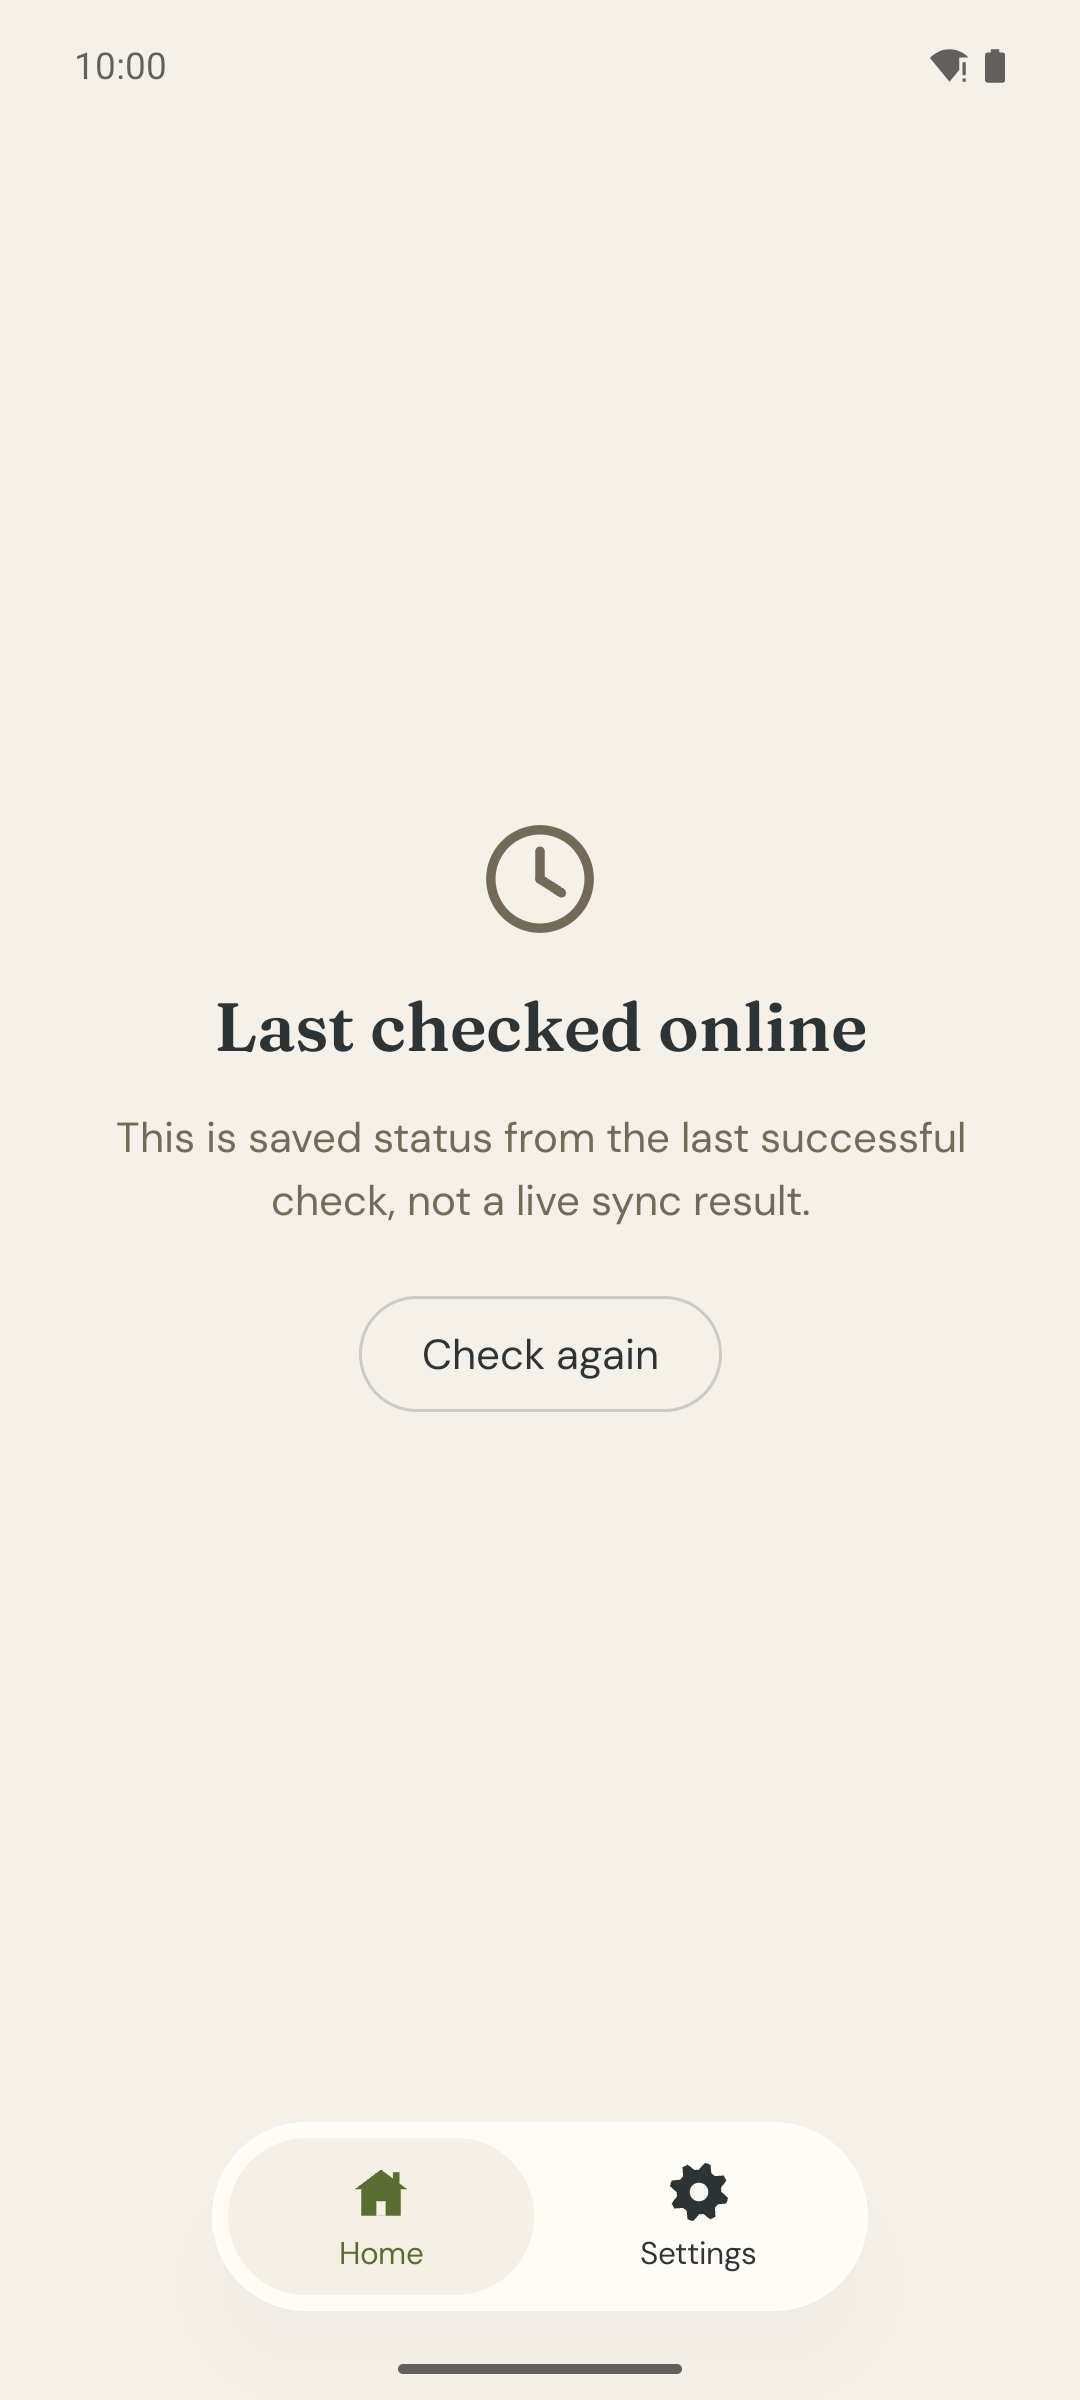
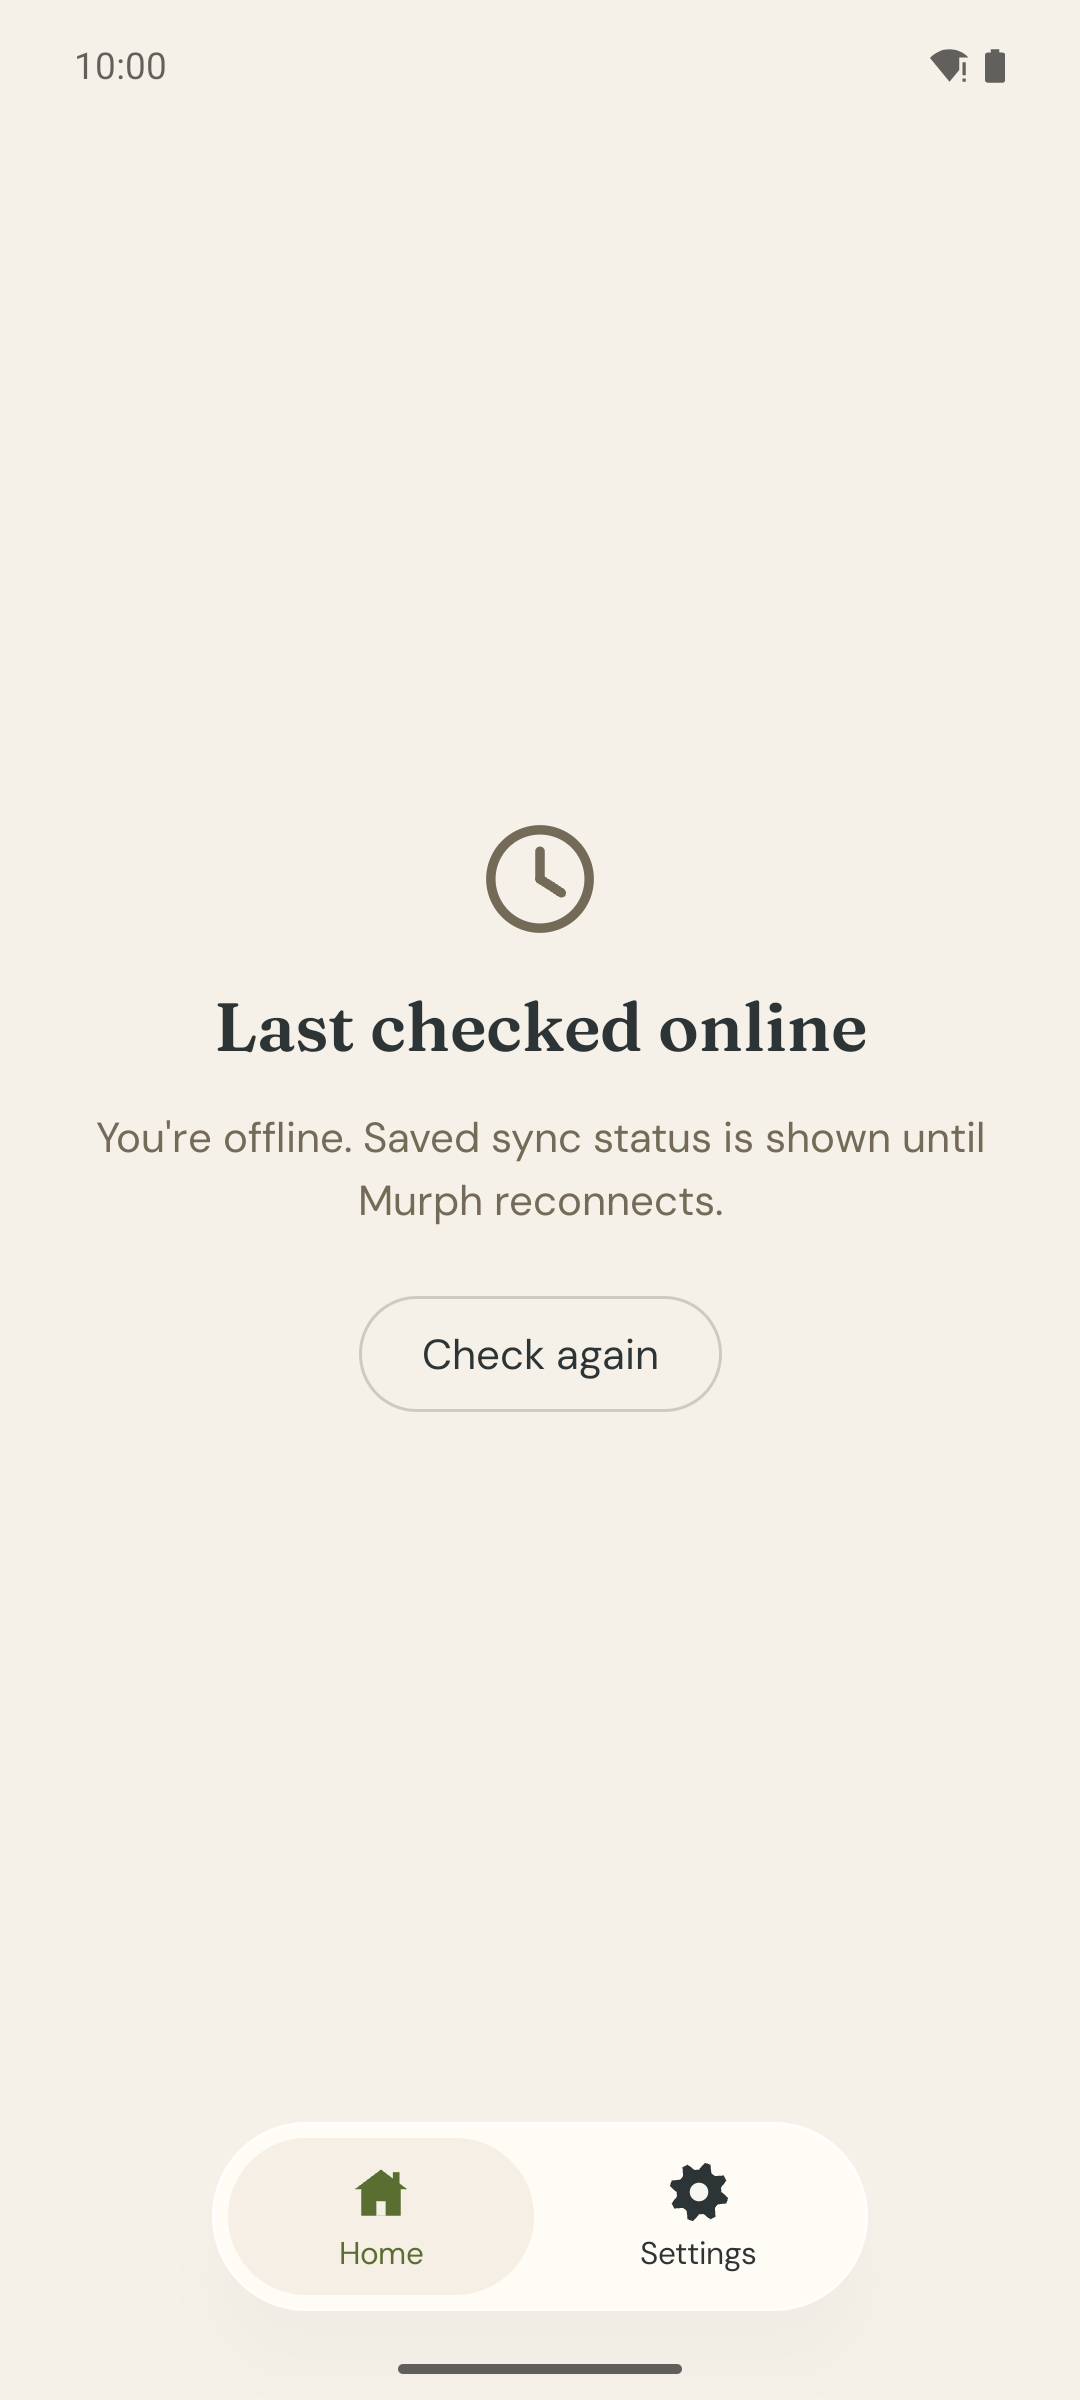
Fail closed on Health Connect permission reload

Changed region(s): [[0.0917, 0.4688, 0.9167, 0.5312]]

diff --git a/app/src/main/java/ai/withmurph/companion/app/AppSession.kt b/app/src/main/java/ai/withmurph/companion/app/AppSession.kt
@@ -1869,6 +1869,7 @@ class AppSession(
     private suspend fun syncNow(
         foregroundClaim: ForegroundRefreshClaim?,
         acceptedConsentOwner: PendingLaunchConsentRecovery? = null,
+        permissionStateVerified: Boolean = false,
         onAuthoritativeLocalAuth: ((AuthSessionState) -> Unit)? = null,
     ) {
         if (!allowsLaunchConsentWork(acceptedConsentOwner)) return
@@ -1884,10 +1885,19 @@ class AppSession(
             reconcile(force = true, foregroundClaim, acceptedConsentOwner)
             return
         }
+        if (
+            !permissionStateVerified &&
+            _state.value.healthStatusIsStale &&
+            !refreshHealthPermissionState()
+        ) {
+            publishHealthPermissionVerificationFailure()
+            return
+        }
         if (health.grantedResourceCount() == 0) {
             publishPermissionAwareHealthState(
                 status = cachedHealthStatus(),
                 message = _state.value.healthMessage,
+                healthStatusIsStale = false,
             )
             return
         }
@@ -1996,15 +2006,13 @@ class AppSession(
                 if (!ownsForegroundRefresh(foregroundClaim)) return@withLock
             }
             if (_state.value.phase != AppPhase.Ready) return@withLock
-            try {
-                health.refreshPermissionState()
-            } catch (error: CancellationException) {
-                throw error
-            } catch (_: Exception) {
-                // Availability and backend receipt status remain independently useful.
-            }
+            val permissionStateVerified = refreshHealthPermissionState()
             if (!ownsForegroundRefresh(foregroundClaim)) return@withLock
             val availability = health.availability()
+            if (!permissionStateVerified) {
+                publishHealthPermissionVerificationFailure(availability)
+                return@withLock
+            }
             val grantedResourceCount = health.grantedResourceCount()
             val needsPermissionRecovery = healthWasRequested() && grantedResourceCount == 0
             _state.update { current ->
@@ -2014,6 +2022,11 @@ class AppSession(
                         HealthSyncState.NotConnected
                     } else {
                         current.healthSync
+                    },
+                    healthStatusIsStale = if (needsPermissionRecovery) {
+                        false
+                    } else {
+                        current.healthStatusIsStale
                     },
                     grantedResourceCount = grantedResourceCount,
                     healthMessage = if (
@@ -2036,6 +2049,7 @@ class AppSession(
             ) {
                 syncNow(
                     foregroundClaim,
+                    permissionStateVerified = true,
                     onAuthoritativeLocalAuth = {
                         deferredBoundary = deferredBoundary
                             ?: DeferredSessionBoundary.LocalAuth(it)
@@ -2440,14 +2454,12 @@ class AppSession(
             }
             if (!fetchInitialOnboardingProjection(authState.memberKey, epoch)) return
         }
+        val permissionStateVerified = when {
+            !requested -> true
+            !authState.verifiedOnline -> false
+            else -> refreshHealthPermissionState()
+        }
         if (requested && authState.verifiedOnline) {
-            try {
-                health.refreshPermissionState()
-            } catch (error: CancellationException) {
-                throw error
-            } catch (_: Exception) {
-                // The last cached permission state remains safe to render.
-            }
             if (
                 epoch != sessionEpoch ||
                 authState.memberKey != currentMemberKey ||
@@ -2455,7 +2467,8 @@ class AppSession(
             ) return
         }
         val grantedResourceCount = health.grantedResourceCount()
-        val needsPermissionRecovery = healthWasRequested() && grantedResourceCount == 0
+        val needsPermissionRecovery =
+            permissionStateVerified && healthWasRequested() && grantedResourceCount == 0
         val reconnectRequired = localState.healthReconnectRequired
         _state.update { current ->
             current.copy(
@@ -2468,12 +2481,16 @@ class AppSession(
                 } else {
                     deriveCachedHealthState()
                 },
-                healthStatusIsStale = !authState.verifiedOnline && healthWasRequested(),
+                healthStatusIsStale =
+                    healthWasRequested() &&
+                        (!authState.verifiedOnline || !permissionStateVerified),
                 healthReconnectRequired = reconnectRequired,
                 grantedResourceCount = grantedResourceCount,
                 healthMessage = when {
                     reconnectRequired -> HEALTH_RECONNECT_REQUIRED_MESSAGE
                     needsPermissionRecovery -> HEALTH_PERMISSION_RECOVERY_MESSAGE
+                    !permissionStateVerified && authState.verifiedOnline ->
+                        HEALTH_PERMISSION_VERIFICATION_MESSAGE
                     authState.verifiedOnline -> null
                     else -> "You're offline. Murph will verify the session and resume sync when the connection returns."
                 },
@@ -2510,6 +2527,7 @@ class AppSession(
         if (
             healthWasRequested() &&
             authState.verifiedOnline &&
+            permissionStateVerified &&
             grantedResourceCount > 0
         ) {
             var authoritativeLocalAuth: AuthSessionState? = null
@@ -3256,6 +3274,32 @@ class AppSession(
             healthStatusIsStale = true,
             clearSyncing = true,
         )
+    }
+
+    private suspend fun refreshHealthPermissionState(): Boolean = try {
+        health.refreshPermissionState()
+        true
+    } catch (error: CancellationException) {
+        throw error
+    } catch (_: Exception) {
+        false
+    }
+
+    private fun publishHealthPermissionVerificationFailure(
+        availability: HealthConnectAvailability = health.availability(),
+    ) {
+        val requested = healthWasRequested()
+        _state.update { current ->
+            current.copy(
+                healthAvailability = availability,
+                healthStatusIsStale = if (requested) true else current.healthStatusIsStale,
+                healthMessage = if (requested) {
+                    HEALTH_PERMISSION_VERIFICATION_MESSAGE
+                } else {
+                    current.healthMessage
+                },
+            )
+        }
     }
 
     private fun publishPermissionAwareHealthState(
@@ -5895,6 +5939,8 @@ class AppSession(
             "Murph needs your latest launch consent. Review it in the app, then try again."
         const val HEALTH_PERMISSION_RECOVERY_MESSAGE =
             "Health Connect access is off. Reconnect and choose at least one category."
+        const val HEALTH_PERMISSION_VERIFICATION_MESSAGE =
+            "Murph couldn't verify current Health Connect permissions. Saved status is still shown."
         const val HEALTH_RECONNECT_REQUIRED_MESSAGE =
             "Health Connect needs to reconnect before syncing can resume."
     }

diff --git a/app/src/test/java/ai/withmurph/companion/app/AppSessionTest.kt b/app/src/test/java/ai/withmurph/companion/app/AppSessionTest.kt
@@ -5926,6 +5926,99 @@ class AppSessionTest {
     }
 
     @Test
+    fun failedForegroundPermissionReloadKeepsCachedStatusStaleAndSkipsSync() = runTest {
+        val now = Instant.parse("2026-07-25T18:00:00Z")
+        val fixture = fixture(now = now)
+        fixture.localState.memberKey = MEMBER_KEY
+        fixture.localState.healthAccessRequestedAt =
+            InstantValue(now.minusSeconds(3_600).toEpochMilli())
+        fixture.localState.lastKnownDataReceivedAt =
+            InstantValue(now.minusSeconds(600).toEpochMilli())
+        fixture.localState.lastKnownStatusObservedAt = InstantValue(now.toEpochMilli())
+        fixture.health.grantedCount = fixture.health.totalResourceCount
+        fixture.health.signedIn = true
+        fixture.api.status = CompanionSyncStatus(
+            lastDataReceivedAt = now.minusSeconds(600),
+            observedAt = now,
+            resources = emptyMap(),
+        )
+        fixture.session.start()
+        val statusCalls = fixture.api.statusSources.size
+        val syncCalls = fixture.health.syncCalls
+        fixture.health.actualGrantedCount = 0
+        fixture.health.refreshError = IllegalStateException("permission reload unavailable")
+
+        fixture.session.didEnterBackground()
+        fixture.session.didBecomeActive()
+
+        assertTrue(fixture.session.state.value.healthSync is HealthSyncState.Synced)
+        assertTrue(fixture.session.state.value.healthStatusIsStale)
+        assertEquals(
+            HEALTH_PERMISSION_VERIFICATION_MESSAGE,
+            fixture.session.state.value.healthMessage,
+        )
+        assertEquals(statusCalls, fixture.api.statusSources.size)
+        assertEquals(syncCalls, fixture.health.syncCalls)
+
+        fixture.session.syncNow()
+
+        assertTrue(fixture.session.state.value.healthStatusIsStale)
+        assertEquals(statusCalls, fixture.api.statusSources.size)
+        assertEquals(syncCalls, fixture.health.syncCalls)
+
+        fixture.health.refreshError = null
+        fixture.session.didEnterBackground()
+        fixture.session.didBecomeActive()
+
+        assertEquals(HealthSyncState.NotConnected, fixture.session.state.value.healthSync)
+        assertFalse(fixture.session.state.value.healthStatusIsStale)
+        assertEquals(0, fixture.session.state.value.grantedResourceCount)
+        assertEquals(HEALTH_PERMISSION_RECOVERY_MESSAGE, fixture.session.state.value.healthMessage)
+        assertEquals(syncCalls, fixture.health.syncCalls)
+    }
+
+    @Test
+    fun failedStartupPermissionReloadKeepsReadyStatusStaleUntilVerified() = runTest {
+        val now = Instant.parse("2026-07-25T18:00:00Z")
+        val fixture = fixture(now = now)
+        fixture.localState.memberKey = MEMBER_KEY
+        fixture.localState.healthAccessRequestedAt =
+            InstantValue(now.minusSeconds(3_600).toEpochMilli())
+        fixture.localState.lastKnownDataReceivedAt =
+            InstantValue(now.minusSeconds(600).toEpochMilli())
+        fixture.localState.lastKnownStatusObservedAt = InstantValue(now.toEpochMilli())
+        fixture.health.grantedCount = fixture.health.totalResourceCount
+        fixture.health.actualGrantedCount = fixture.health.totalResourceCount
+        fixture.health.refreshError = IllegalStateException("permission reload unavailable")
+        fixture.api.status = CompanionSyncStatus(
+            lastDataReceivedAt = now.minusSeconds(300),
+            observedAt = now,
+            resources = emptyMap(),
+        )
+
+        fixture.session.start()
+
+        assertEquals(AppPhase.Ready, fixture.session.state.value.phase)
+        assertTrue(fixture.session.state.value.healthSync is HealthSyncState.Synced)
+        assertTrue(fixture.session.state.value.healthStatusIsStale)
+        assertEquals(
+            HEALTH_PERMISSION_VERIFICATION_MESSAGE,
+            fixture.session.state.value.healthMessage,
+        )
+        assertEquals(0, fixture.health.syncCalls)
+        assertTrue(fixture.api.statusSources.isEmpty())
+
+        fixture.health.refreshError = null
+        fixture.session.didEnterBackground()
+        fixture.session.didBecomeActive()
+
+        assertFalse(fixture.session.state.value.healthStatusIsStale)
+        assertEquals(null, fixture.session.state.value.healthMessage)
+        assertEquals(1, fixture.health.syncCalls)
+        assertEquals(2, fixture.api.statusSources.size)
+    }
+
+    @Test
     fun unavailableAuthStillReconcilesCompletePermissionRevocation() = runTest {
         val now = Instant.parse("2026-07-25T18:00:00Z")
         val fixture = fixture(now = now)
@@ -7726,6 +7819,7 @@ class AppSessionTest {
         var configureError: Throwable? = null
         var connectError: Throwable? = null
         var syncError: Throwable? = null
+        var refreshError: Throwable? = null
         var syncErrorOnCall: Int? = null
         var loseSessionOnSyncError = false
         var connectGate: CompletableDeferred<Unit>? = null
@@ -7783,6 +7877,7 @@ class AppSessionTest {
                 refreshEntered.complete(Unit)
                 refreshGate?.await()
             }
+            refreshError?.let { throw it }
             actualGrantedCount?.let { grantedCount = it }
         }
 
@@ -7993,6 +8088,8 @@ class AppSessionTest {
         const val MEMBER_KEY = "did:privy:user_123"
         const val HEALTH_PERMISSION_RECOVERY_MESSAGE =
             "Health Connect access is off. Reconnect and choose at least one category."
+        const val HEALTH_PERMISSION_VERIFICATION_MESSAGE =
+            "Murph couldn't verify current Health Connect permissions. Saved status is still shown."
 
         fun launchConsentStatus(granted: Boolean): LaunchConsentStatus {
             val legal = LaunchConsentDocument(

diff --git a/app/src/debug/java/ai/withmurph/companion/visual/ScreenshotActivity.kt b/app/src/debug/java/ai/withmurph/companion/visual/ScreenshotActivity.kt
@@ -77,6 +77,7 @@ internal enum class ScreenshotScenario {
     Awaiting,
     Synced,
     SavedStatus,
+    PermissionVerificationFailed,
     Delayed,
     Attention,
     ConsentRequired,
@@ -116,6 +117,13 @@ internal enum class ScreenshotScenario {
             authVerifiedOnline = false,
             healthMessage = "You're offline. Saved sync status is shown until Murph reconnects.",
         )
+        PermissionVerificationFailed ->
+            ready(HealthSyncState.Synced(now.minus(Duration.ofMinutes(5)))).copy(
+                healthStatusObservedAt = now,
+                healthStatusIsStale = true,
+                healthMessage =
+                    "Murph couldn't verify current Health Connect permissions. Saved status is still shown.",
+            )
         Delayed -> ready(
             HealthSyncState.Delayed(now.minus(Duration.ofHours(48))),
             observedAt = now,
@@ -208,6 +216,7 @@ internal enum class ScreenshotScenario {
         Awaiting,
         Synced,
         SavedStatus,
+        PermissionVerificationFailed,
         Delayed,
         Attention,
         ConsentRequired,

diff --git a/app/src/testDebug/java/ai/withmurph/companion/visual/ScreenshotFixtureTest.kt b/app/src/testDebug/java/ai/withmurph/companion/visual/ScreenshotFixtureTest.kt
@@ -45,6 +45,7 @@ class ScreenshotFixtureTest {
         val timestampScenarios = listOf(
             ScreenshotScenario.Synced,
             ScreenshotScenario.SavedStatus,
+            ScreenshotScenario.PermissionVerificationFailed,
             ScreenshotScenario.Delayed,
             ScreenshotScenario.Attention,
             ScreenshotScenario.FriendlyNames,
@@ -107,6 +108,15 @@ class ScreenshotFixtureTest {
             unavailable.healthAvailability,
         )
         assertEquals(HealthSyncState.NotConnected, unavailable.healthSync)
+
+        val permissionFailure = ScreenshotScenario.PermissionVerificationFailed.appState(now)
+        assertTrue(permissionFailure.healthSync is HealthSyncState.Synced)
+        assertTrue(permissionFailure.healthStatusIsStale)
+        assertTrue(permissionFailure.authVerifiedOnline)
+        assertEquals(
+            "Murph couldn't verify current Health Connect permissions. Saved status is still shown.",
+            permissionFailure.healthMessage,
+        )
     }
 
     @Test

diff --git a/app/src/main/java/ai/withmurph/companion/ui/home/HomeScreen.kt b/app/src/main/java/ai/withmurph/companion/ui/home/HomeScreen.kt
@@ -297,7 +297,8 @@ private fun SyncStatusContent(
         icon = MurphIconKind.Clock
         tint = MurphColors.SlateMuted
         title = "Last checked online"
-        detail = "This is saved status from the last successful check, not a live sync result."
+        detail = state.healthMessage
+            ?: "This is saved status from the last successful check, not a live sync result."
     } else when (sync) {
         HealthSyncState.NotConnected -> return
         HealthSyncState.AwaitingFirstData -> {
